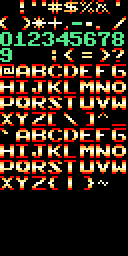
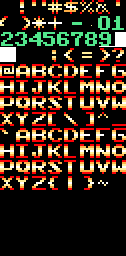
fixed font issue.

diff --git a/src/sketches/1/index.js b/src/sketches/1/index.js
@@ -9,7 +9,7 @@ const KEY_A = 65;
 const KEY_D = 68;
 
 let p5 = require('p5');
-let test = require('./p5BitmapFont');
+let setupBitmapFont = require('./p5BitmapFont');
 let Assets = require('./Assets');
 let Character = require('./Character');
 let GameBoard = require('./GameBoard').instance;
@@ -61,7 +61,7 @@ var newp5 = new p5(function(p) {
       glyphHeight: 16,
       glyphBorder: 0,
       rows: 12,
-      cols: 8
+      cols: 9
     });
   };
 
@@ -127,7 +127,9 @@ function drawMouseCoords() {
   if (!debug) {
     return;
   }
-   _p5.bitmapText(`${_p5.mouseX} , ${_p5.mouseY}`, 200, 10);
+   _p5.bitmapText(`0123456789 012345`, 200, 10);
+
+    //${_p5.mouseX} , ${_p5.mouseY}`, 200, 10);
 }
 
 function drawArm(key) {
